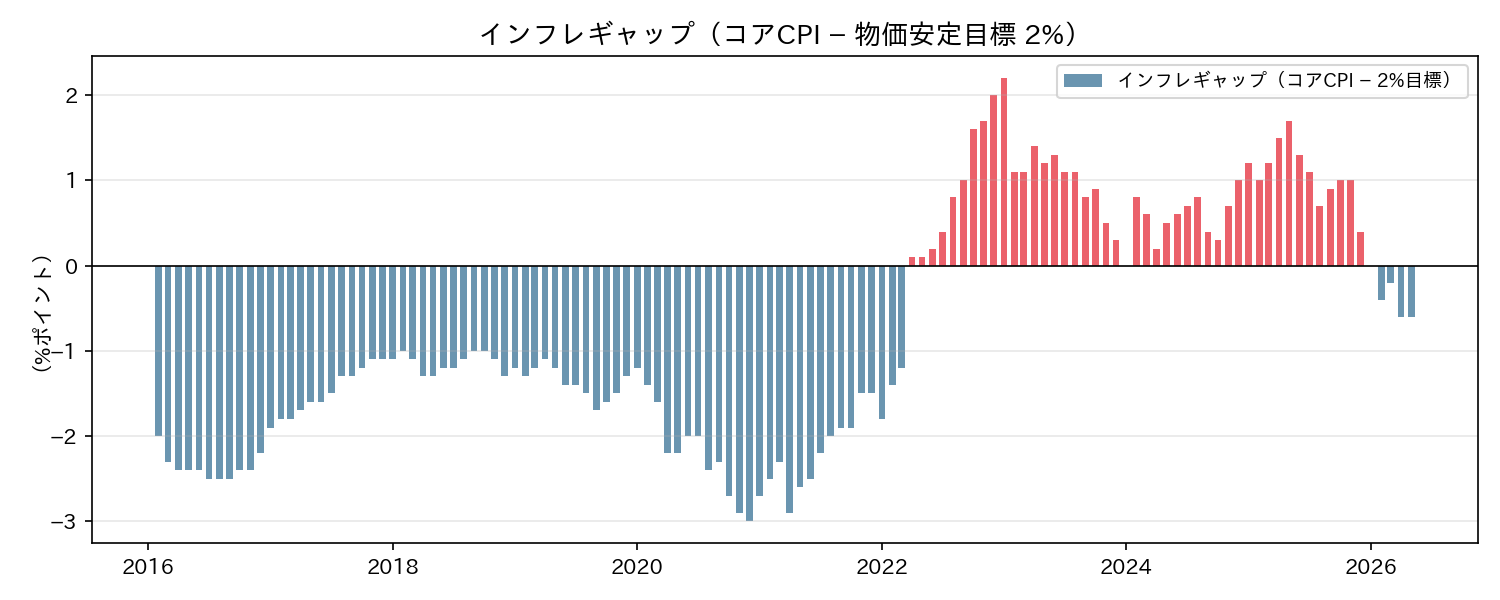
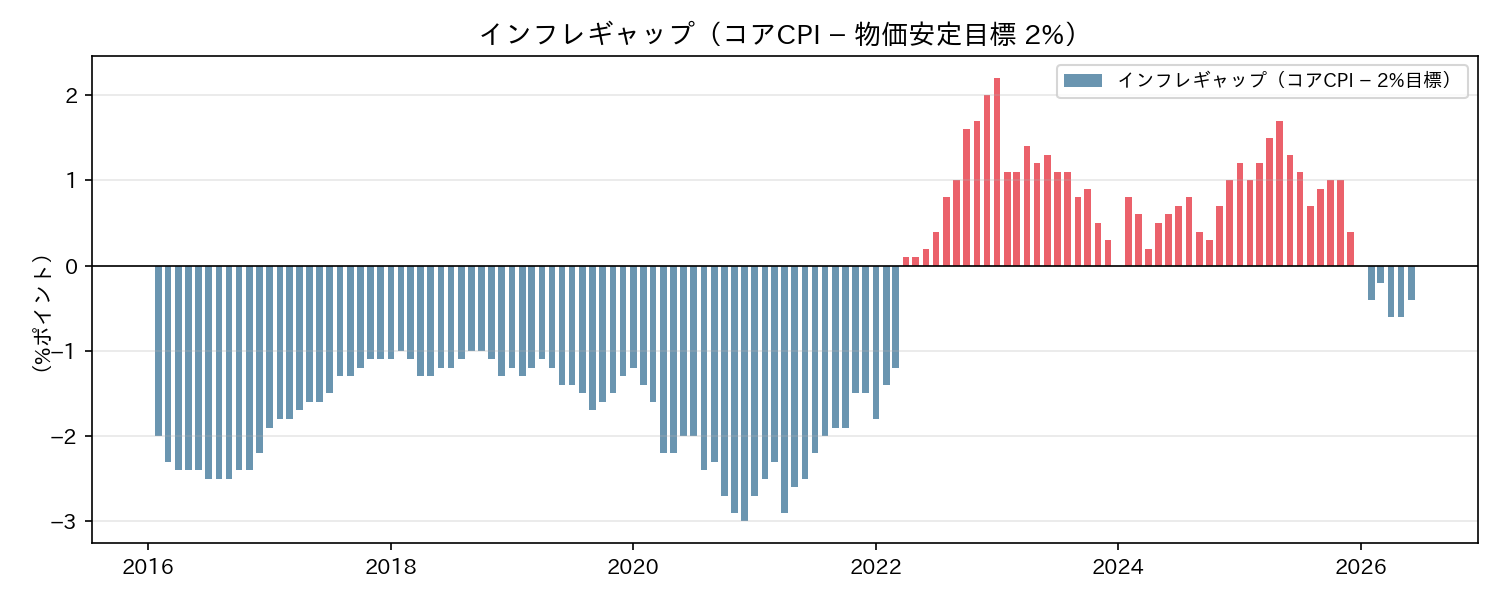
docs: add macro analysis report 2026-08-12
Core CPI rebounded to 1.6% after two months at 1.4%, and BEI bottomed
out mid-July before recovering to ~1.95%, so the CPI-BEI gap narrowed
via CPI recovery rather than expectations cooling. BOJ hiked again in
July (0.978%), but the Taylor-rule gap widened to 1.17pt as the higher
CPI lifted the implied rate. Yen reversed to 159 from 161.9.

diff --git a/docs/report/macro_analysis_2026-08-12.md b/docs/report/macro_analysis_2026-08-12.md
@@ -1,0 +1,255 @@
+# マクロ経済考察レポート（2026-08-12）
+
+> 生成日時: 2026-08-12
+
+---
+
+## エグゼクティブサマリー
+
+**前回レポート（2026-07-11）以降、コアCPIが3ヶ月ぶりに反発した**。2026年6月分は1.6%となり、4月・5月の1.4%横ばいから0.2%ポイント上昇した。前回レポートで最大の懸念だったBEI（期待インフレ率）は7月中旬に1.883%まで下げたあと月末にかけて1.95%前後まで戻し、**下げ止まりを確認**した。結果として「コアCPIとBEIの乖離」は0.57%ポイントから0.35%ポイントへ縮小したが、**今回はBEIの後退ではなくCPIの回復が主因**であり、前回の悲観的な収斂とは中身が逆転している。
+
+日銀は7月も追加利上げを実施し、政策金利は0.841%から**0.978%**へ。6月に続く2ヶ月連続の引き上げで、1%の大台が目前に迫った。ただしCPIが上向いたことでテイラールール適正金利も1.85%→**2.15%**へ切り上がり、**利上げしたにもかかわらず乖離は1.01%ポイントから1.17%ポイントへ拡大**している。
+
+新たな変化は為替で、円は161円台後半から**159円台へ反転（1ヶ月で−1.55%の円高）**した。回復し始めたばかりのCPIにとっては、輸入物価経由の向かい風になり得る点が今回の注視材料である。
+
+---
+
+## 総合モニタリングチャート（見取り図）
+
+5指標を「日銀の見取り図」（経済→物価→金融）の時計回り順に並べた俯瞰図。
+
+![日銀マクロ経済モニタリング 統合チャート](./images/combined_chart.png)
+
+---
+
+## 1. 国内経済・物価指標の現状
+
+### 1-1. 指標サマリー
+
+| 指標 | 最新値 | 前回値 | 変化 | 評価 |
+|------|--------|--------|------|------|
+| コアCPI（前年比）[2026-06] | 1.6% | 1.4%（2026-05） | ▲ 0.2%pt | 🟢 反発・目標レンジ復帰 |
+| 政策金利（月平均）[2026-07] | 0.978% | 0.841%（2026-06） | ▲ 0.137%pt | 🟡 2ヶ月連続利上げ |
+| 需給ギャップ [2026-Q1] | +0.5% | +0.5%（2026-Q1・据置） | → 更新なし | 🟢 需要超過継続 |
+| BEI（期待インフレ率）[2026-07-31] | 1.952% | 1.973%（2026-06-30） | ▼ 0.021%pt | 🟡 下げ止まりも目標割れ継続 |
+| 実質金利（政策金利 − BEI） | −0.97% | −1.13% | ▲ 0.16%pt | 🔴 緩和的（縮小中） |
+
+🟢 良好・目標方向　／　🟡 やや外れ　／　🔴 要注意・目標から乖離
+
+---
+
+### 1-2. テイラールール：適正政策金利の試算
+
+```
+【テイラールール】
+適正金利 ＝ 均衡実質金利 ＋ 目標インフレ率 ＋ 0.5 × 需給ギャップ ＋ 1.5 × インフレギャップ
+
+均衡実質金利（自然利子率）: 0.5%（日銀リサーチ推計レンジ中央値）
+目標インフレ率: 2.0%
+需給ギャップ: +0.5%
+インフレギャップ（コアCPI − 2%）: 1.6% − 2.0% ＝ −0.4%
+
+適正金利 ＝ 0.5 ＋ 2.0 ＋ 0.5 × 0.5 ＋ 1.5 × (−0.4)
+         ＝ 0.5 ＋ 2.0 ＋ 0.25 − 0.6
+         ＝ 2.15%
+```
+
+| 項目 | 値 |
+|------|---|
+| テイラールール適正金利 | **2.15%**（前回 1.85%） |
+| 現在の政策金利 | 0.978%（前回 0.841%） |
+| 乖離（過剰緩和幅） | **−1.17%pt**（前回 −1.01%pt） |
+
+**今回の特徴は「利上げしたのに乖離が拡大した」点にある**。政策金利を0.137%ポイント引き上げた一方、コアCPIの反発（1.4%→1.6%）によりインフレギャップが−0.6%から−0.4%へ縮小し、適正金利が0.3%ポイント切り上がったためである。ルールベースで見れば、物価が目標に近づくほど追いかけるべき金利水準も上がる関係にあり、**追加利上げの余地はむしろ広がった**と読める。
+
+---
+
+### 1-3. 指標別詳細考察
+
+#### ① 需給ギャップ（経済ブロック）
+
+![需給ギャップ（GDPギャップ）](./images/gdp_gap_chart.png)
+
+2026年Q1の+0.5%が3ヶ月連続で最新値のまま据え置かれており、Q2分の公表待ちが続いている。2025年Q3の0.0%→Q4の+0.1%→2026年Q1の+0.5%という改善トレンドは維持され、需要面からの物価押し上げ圧力は健在。ただし**データの鮮度としては約半年前の実績**であり、足元の円高転換や株価の一服が反映されていない点は差し引いて見る必要がある。
+
+---
+
+#### ② コアCPI・物価上昇率（物価ブロック）
+
+![コアCPI（生鮮食品を除く総合・前年比）](./images/cpi_chart.png)
+
+前回レポートの焦点だった「6月分で反発に転じるか」は、**反発（1.4%→1.6%）という形で決着した**。
+
+| 月 | コアCPI（前年比） |
+|----|----------------|
+| 2025-12 | 2.4% |
+| 2026-01 | 2.0% |
+| 2026-02 | 1.6% |
+| 2026-03 | 1.8% |
+| 2026-04 | 1.4% |
+| 2026-05 | 1.4% |
+| 2026-06 | 1.6% ← 直近（反発） |
+
+2025年11月の3.0%から2026年4月の1.4%まで一気に低下した局面は、2ヶ月の横ばいを経て下げ止まり、今回上向いた。**2月・3月と同じ1.6〜1.8%のレンジに戻った形**であり、「一時的な急落だった」という前回の見立てを支持する。ただし目標（2%）とはなお0.4%ポイントの差があり、反発が1ヶ月限りか継続するかは7月分の確認を要する。
+
+---
+
+#### ③ BEI（期待インフレ率）と④ インフレギャップ（物価ブロック）
+
+![BEI（ブレーク・イーブン・インフレ率）](./images/expected_inflation_chart.png)
+
+前回レポートのウォッチポイント①「BEIが下げ止まるか」については、**7月中旬に底を打ち、月末にかけて戻す動きを確認した**。
+
+| 日付 | BEI |
+|------|-----|
+| 2026-06-30 | 1.973%（前回レポート時点） |
+| 2026-07-17 | 1.883% ← 直近ボトム |
+| 2026-07-21 | 1.902% |
+| 2026-07-23 | 1.958% |
+| 2026-07-24 | 1.976% |
+| 2026-07-29 | 1.930% |
+| 2026-07-30 | 1.963% |
+| 2026-07-31 | 1.952% ← 直近 |
+
+6月下旬の急落（2.088%→1.950%）に続いて7月中旬に1.883%まで下押ししたが、そこから1.95〜1.98%のレンジへ回復し、**7月後半は横ばい圏で推移**した。2%の目標は依然として回復できていないものの、「低下が加速する」という前回の下振れリスクは当面回避された格好である。
+
+**コアCPIとBEIの乖離：0.352%ポイント**（前回 0.573%ポイントから縮小）
+
+| | 前回（2026-07-11） | 今回（2026-08-12） | 変化 |
+|---|---|---|---|
+| コアCPI | 1.4% | 1.6% | ▲ 0.2%pt |
+| BEI | 1.973% | 1.952% | ▼ 0.021%pt |
+| 乖離 | 0.573%pt | **0.352%pt** | 縮小 |
+
+**縮小幅0.22%ポイントのうち、約9割はCPIの上昇による**。前回は「BEIがCPI側へ落ちてくる」悲観的な収斂だったが、今回は「CPIがBEI側へ近づく」健全な収斂に転じており、**乖離の質が改善した**と評価できる。
+
+---
+
+![インフレギャップ（コアCPI − 物価安定目標 2%）](./images/inflation_gap_chart.png)
+
+インフレギャップ（コアCPI − 2%目標）は−0.6%ポイントから**−0.4%ポイント**へ縮小した。2026年2月以降マイナス圏が続いており、マイナス幅としては3月（−0.2%pt）に次ぐ小ささとなる。
+
+---
+
+#### ⑤ 政策金利・実質金利・自然利子率（金融ブロック）
+
+![政策金利・実質金利（金融ブロック）](./images/policy_rate_chart.png)
+
+日銀は7月も追加利上げを実施し、政策金利は0.841%から**0.978%**へ。2025年12月（0.557%）→2026年6月（0.841%）→7月（0.978%）と、**直近7ヶ月で0.42%ポイントの引き上げ**となり、正常化のペースが明確に加速している。
+
+```
+実質金利 ＝ 政策金利（0.978%）− BEI（1.952%）＝ −0.97%
+自然利子率（中立基準）＝ 0.5%
+緩和超過幅 ＝ −0.97% − 0.5% ＝ −1.47%ポイント
+```
+
+実質金利は前回の−1.45%（6月時点）→−1.13%（前回レポート）→**−0.97%** と縮小を続け、**−1%台を脱した**。前回はBEIの低下が縮小の主因だったのに対し、**今回はBEIがほぼ横ばい（−0.02%pt）のなか名目金利の引き上げ（+0.137%pt）がほぼ全額を説明する**。金融引き締めが実質ベースでも効き始めた形だが、なお自然利子率を約1.5%ポイント下回っており、金融環境は**依然として大幅に緩和的**である。
+
+---
+
+## 2. 外部要因・市場動向
+
+### 2-1. 為替（USDJPY）
+
+| 期間 | 水準 |
+|------|------|
+| 現在（2026-08-12） | **159.37 円/ドル** |
+| 1ヶ月前（2026-07-13） | 161.88 円/ドル |
+| 3ヶ月前（2026-05-14） | 157.85 円/ドル |
+| 3ヶ月高値 | 163.86 円/ドル |
+| 3ヶ月安値 | 157.53 円/ドル |
+| 1ヶ月変化率 | **−1.55%（円高方向）** |
+| 3ヶ月変化率 | **+0.96%（円安方向）** |
+
+**今回の最大の変化は円の反転である**。前回レポート時点の161.67円から159.37円へ、1ヶ月で1.55%の円高が進んだ。7月に3ヶ月高値の163.86円を付けたあと反落しており、**5月以来続いた円安基調がいったん止まった**形といえる。
+
+円高は輸入物価を通じてコアCPIを押し下げる方向に働く。ようやく1.6%へ反発したばかりのCPIにとっては向かい風であり、**「CPIの回復」と「円高の進行」が綱引きになる**のが今後1〜2ヶ月の構図となる。
+
+**日米金利差との関係**：
+
+| 指標 | 値 |
+|------|---|
+| 米10年債利回り（2026-08-11） | 4.684%（前回 4.569%） |
+| 日本政策金利 | 0.978%（前回 0.841%） |
+| 日米金利差 | **3.71%ポイント**（前回 3.73%pt） |
+
+米金利が上昇（4.57%→4.68%）した一方で日本も利上げしたため、金利差は3.73%→3.71%ポイントとほぼ横ばいだった。**金利差がほぼ変わらないのに円高が進んだ点は注目に値する**。実現した金利差ではなく、日銀の連続利上げが示す「今後の金利差縮小」への期待が為替に織り込まれ始めた可能性がある。
+
+### 2-2. 株式市場（日経225）
+
+| 期間 | 水準 |
+|------|------|
+| 現在（2026-08-12） | **67,524 円** |
+| 1ヶ月前（2026-07-13） | 67,243 円 |
+| 3ヶ月前（2026-05-14） | 62,654 円 |
+| 3ヶ月高値 | 72,366 円 |
+| 3ヶ月安値 | 59,804 円 |
+| 1ヶ月変化率 | **+0.42%（横ばい）** |
+| 3ヶ月変化率 | **+7.77%（上昇基調は継続）** |
+
+前回レポート（68,558円）からわずかに水準を切り下げ、**急騰局面は一服して高値圏でのもみ合いに移行した**。3ヶ月高値の72,366円は前回レポートと同じ値であり、7月以降は高値を更新していない。
+
+3ヶ月変化率は前回の+21.34%から+7.77%へ大幅に鈍化した（比較の起点が急騰前の安値圏から外れた影響も含む）。**円高転換と株価の伸び悩みが同時に起きている**ことは、これまでの株高が円安に相当程度支えられていたという見方と整合的である。
+
+---
+
+## 3. 総合考察（金融政策への含意）
+
+### 3-1. 現状の総括：反転した収斂と、拡大した乖離
+
+**乖離①：コアCPI（1.6%）とBEI（1.95%）の差 → 0.35%ポイント（前回0.57%ptから縮小）**
+
+前回は「BEIがCPI側へ落ちる」悲観的な収斂だったが、今回は「CPIがBEI側へ近づく」形に反転した。前回懸念した「市場の楽観が過剰」というリスクシナリオは、BEIの下げ止まりによって当面回避されたと判断できる。
+
+**乖離②：テイラールール適正金利（2.15%）と政策金利（0.98%）の差 → 1.17%ポイント（前回1.01%ptから拡大）**
+
+2ヶ月連続の利上げにもかかわらず乖離は拡大した。物価が目標に近づいた分だけ適正金利も上がるためで、**ルールベースの利上げ余地は縮まるどころか広がっている**。この点は日銀の正常化継続を支持する材料である。
+
+### 3-2. 次回MPMに向けたシナリオ分析
+
+**シナリオA：利上げ継続（確率: 中〜高）**
+
+コアCPIの反発、BEIの下げ止まり、需給ギャップ+0.5%、テイラールール乖離の拡大と、材料はいずれも追加利上げを支持する。6月・7月と連続で引き上げた実績もあり、**前回レポート時点（低〜中）から確率は上昇した**。政策金利が1%の大台に乗るかが焦点。
+
+**シナリオB：様子見（確率: 中）**
+
+2ヶ月連続で利上げした直後であり、効果の見極め期間を置く判断。加えて円高への転換がCPIの回復を鈍らせる可能性があり、7月分・8月分のCPIを確認してから動くという選択肢は依然として有力。
+
+**シナリオC：利上げ停止・緩和方向の点検（確率: 低）**
+
+BEIが下げ止まりCPIも反発した以上、正常化路線を止める根拠は乏しくなった。**前回レポート時点（低〜中）から確率は低下した**。円高が急速に進み輸入物価が下落してCPIが再び1.4%を割り込む、といった条件が重ならない限り現実味は薄い。
+
+### 3-3. リスクシナリオ
+
+**上振れリスク（物価加速・利上げ前倒し）**
+
+- 7月分以降のコアCPIが1.8〜2.0%へ続伸 → 目標到達が視野に
+- BEIが2%台を回復 → 期待インフレの定着を確認
+- 日経225が72,000円台を再び突破 → 資産効果・賃上げ機運の後押し
+- → 日銀は追加利上げを継続し、年内に政策金利が1.25%へ接近する可能性
+
+**下振れリスク（円高・物価回復の腰折れ）**
+
+- 円高が157円台を割り込んで進行 → 輸入物価下落でCPI反発が腰折れ
+- 6月分の1.6%が一時的な反発にとどまり、7月分で再び1.4%台へ
+- BEIが再度1.9%を割り込む
+- 米金利低下観測の強まり → 日米金利差縮小 → 円高圧力の加速
+- → 日銀は連続利上げをいったん停止し、正常化ペースの再検討を迫られる
+
+---
+
+## 4. まとめ：3つのウォッチポイント
+
+| # | 注目ポイント | 意味 |
+|---|------------|------|
+| 1 | **7月分コアCPIの継続性** | 1.6%への反発が続伸するか、単月の戻りにとどまるか。シナリオA／Bの分岐点 |
+| 2 | **円高の進行度（159円→157円台）** | 3ヶ月安値157.53円を割り込むと輸入物価経由でCPI回復を打ち消す。今回新たに浮上した最大の向かい風 |
+| 3 | **BEIの2%回復可否** | 1.95%前後で下げ止まった期待インフレが目標を回復するか。回復すれば正常化路線の正当性が強まる |
+
+補足として、需給ギャップは2026-Q1（+0.5%）が3ヶ月連続で据え置かれている。**Q2分が公表されれば、円高転換後の実体経済を映す最初の指標**となるため、次回以降の更新有無も確認したい。
+
+---
+
+> ※ 市場データ（USDJPY・日経225・米国債利回り）は Yahoo Finance（yfinance）経由で取得した 2026-08-12 時点の値です（米10年債は 2026-08-11 終値）。
+> テイラールール計算における自然利子率は日銀リサーチ論文の推計レンジ中央値（0.5%）を使用しています。
+> チャート画像は `docs/report/images/` に格納済み（生成元: `uv run python main.py make_chart all`）。
